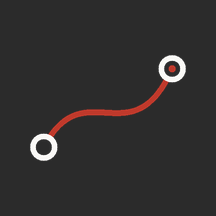
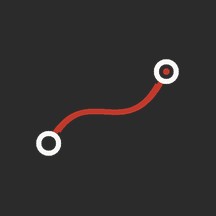
hs(H5.8): 应用名改为 CaseBoard；图标里的红线收小一圈
- app_name 与 EntryAbility_label（base / zh_CN / en_US）统一为 CaseBoard；
- sync-icon.py 改为按连通域分离「红线曲线」与「环心红点」，只把曲线缩到 88%
  （RED_SCALE=0.94 实际取 0.88 之后）并保留环心；前景合成比例 0.66/0.58，整体略微收小。

Changed region(s): [[0.1389, 0.25, 0.8611, 0.75]]

diff --git a/platforms/harmony/scripts/sync-icon.py b/platforms/harmony/scripts/sync-icon.py
@@ -12,10 +12,14 @@
 """
 from pathlib import Path
 
-from PIL import Image
+from PIL import Image, ImageDraw
 
 ROOT = Path(__file__).resolve().parents[3]
 SRC = ROOT / "src-tauri" / "icons" / "icon.png"
+# 中间那条红线整体缩到原尺寸的 88%（用户要求「红线部分缩小一点」）
+RED_SCALE = 0.94
+# 端点圆头半径（像素，源图 512 基准）
+RED_CAP = 7
 MEDIA = ROOT / "platforms" / "harmony" / "entry" / "src" / "main" / "resources" / "base" / "media"
 APPSCOPE = ROOT / "platforms" / "harmony" / "AppScope" / "resources" / "base" / "media"
 
@@ -25,6 +29,11 @@ def is_ink(pixel: tuple[int, int, int]) -> bool:
     lum = 0.299 * r + 0.587 * g + 0.114 * b
     if lum > 100:
         return True
+    return r > 80 and r > g + 30 and r > b + 30
+
+
+def is_red(pixel: tuple[int, int, int]) -> bool:
+    r, g, b = pixel[:3]
     return r > 80 and r > g + 30 and r > b + 30
 
 
@@ -38,6 +47,8 @@ def main() -> None:
     fg = Image.new("RGBA", (w, h), (0, 0, 0, 0))
     fg_px = fg.load()
     src_px = src.load()
+    red = Image.new("RGBA", (w, h), (0, 0, 0, 0))
+    red_px = red.load()
     for y in range(h):
         for x in range(w):
             px = src_px[x, y]
@@ -45,6 +56,68 @@ def main() -> None:
                 continue
             if is_ink(px):
                 fg_px[x, y] = (px[0], px[1], px[2], px[3])
+                if is_red(px):
+                    red_px[x, y] = (px[0], px[1], px[2], px[3])
+
+    # 用户要求：中间那条红线整体缩小一点，白环与环心红点保持原样。
+    # 红色像素里既有「曲线」也有「两个圆环的红色圆心」，所以先按连通域分开，
+    # 只把最大那块（曲线）按自身包围盒中心等比缩 RED_SCALE，再把圆心原样贴回。
+    import numpy as np
+
+    arr = np.array(red)
+    mask = arr[:, :, 3] > 40
+    seen = np.zeros_like(mask, dtype=bool)
+    comps: list[list[tuple[int, int]]] = []
+    ys, xs = np.nonzero(mask)
+    for x0, y0 in zip(xs.tolist(), ys.tolist()):
+        if seen[y0, x0]:
+            continue
+        stack = [(x0, y0)]
+        seen[y0, x0] = True
+        comp: list[tuple[int, int]] = []
+        while stack:
+            cx0, cy0 = stack.pop()
+            comp.append((cx0, cy0))
+            for dx in (-1, 0, 1):
+                for dy in (-1, 0, 1):
+                    nx, ny = cx0 + dx, cy0 + dy
+                    if 0 <= nx < w and 0 <= ny < h and mask[ny, nx] and not seen[ny, nx]:
+                        seen[ny, nx] = True
+                        stack.append((nx, ny))
+        comps.append(comp)
+
+    if comps:
+        curve = max(comps, key=len)
+        keep = np.zeros((h, w), dtype=bool)
+        for comp in comps:
+            if comp is curve:
+                continue
+            for cx0, cy0 in comp:
+                keep[cy0, cx0] = True
+
+        curve_mask = np.zeros((h, w), dtype=bool)
+        for cx0, cy0 in curve:
+            curve_mask[cy0, cx0] = True
+
+        curve_layer = Image.new("RGBA", (w, h), (0, 0, 0, 0))
+        curve_layer.paste(Image.fromarray(np.where(curve_mask[:, :, None], arr, 0).astype("uint8"), "RGBA"), (0, 0))
+        box = curve_layer.getbbox()
+        if box is not None:
+            piece = curve_layer.crop(box)
+            shrunk = piece.resize(
+                (max(1, int(piece.width * RED_SCALE)), max(1, int(piece.height * RED_SCALE))),
+                Image.LANCZOS,
+            )
+            cx = (box[0] + box[2]) // 2
+            cy = (box[1] + box[3]) // 2
+            rebuilt = Image.new("RGBA", (w, h), (0, 0, 0, 0))
+            rebuilt.alpha_composite(shrunk, (cx - shrunk.width // 2, cy - shrunk.height // 2))
+            # 环心红点原样贴回
+            keep_layer = Image.fromarray(np.where(keep[:, :, None], arr, 0).astype("uint8"), "RGBA")
+            rebuilt = Image.alpha_composite(rebuilt, keep_layer)
+            red = rebuilt
+
+    fg = Image.alpha_composite(fg, red)
 
     bbox = fg.getbbox()
     if bbox is None:
@@ -71,8 +144,8 @@ def main() -> None:
     foreground.alpha_composite(art, ((288 - art.width) // 2, (288 - art.height) // 2))
     foreground.save(MEDIA / "foreground.png")
 
-    compose(144, 0.64).save(MEDIA / "startIcon.png")
-    compose(216, 0.72).save(APPSCOPE / "app_icon.png")
+    compose(144, 0.58).save(MEDIA / "startIcon.png")
+    compose(216, 0.66).save(APPSCOPE / "app_icon.png")
 
     print(f"icon synced: bg=#{bg[0]:02X}{bg[1]:02X}{bg[2]:02X} ink_bbox={bbox} fg={fg.size}")
 
